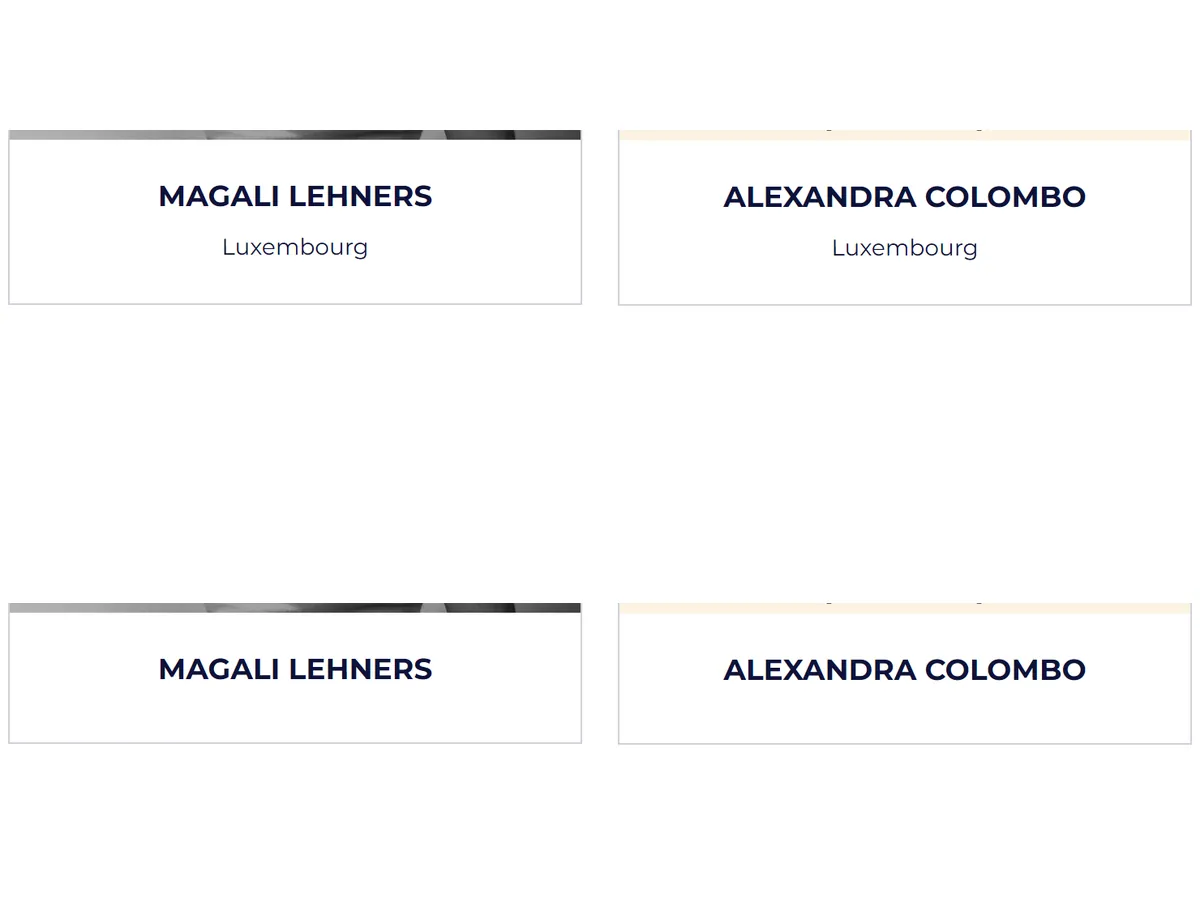
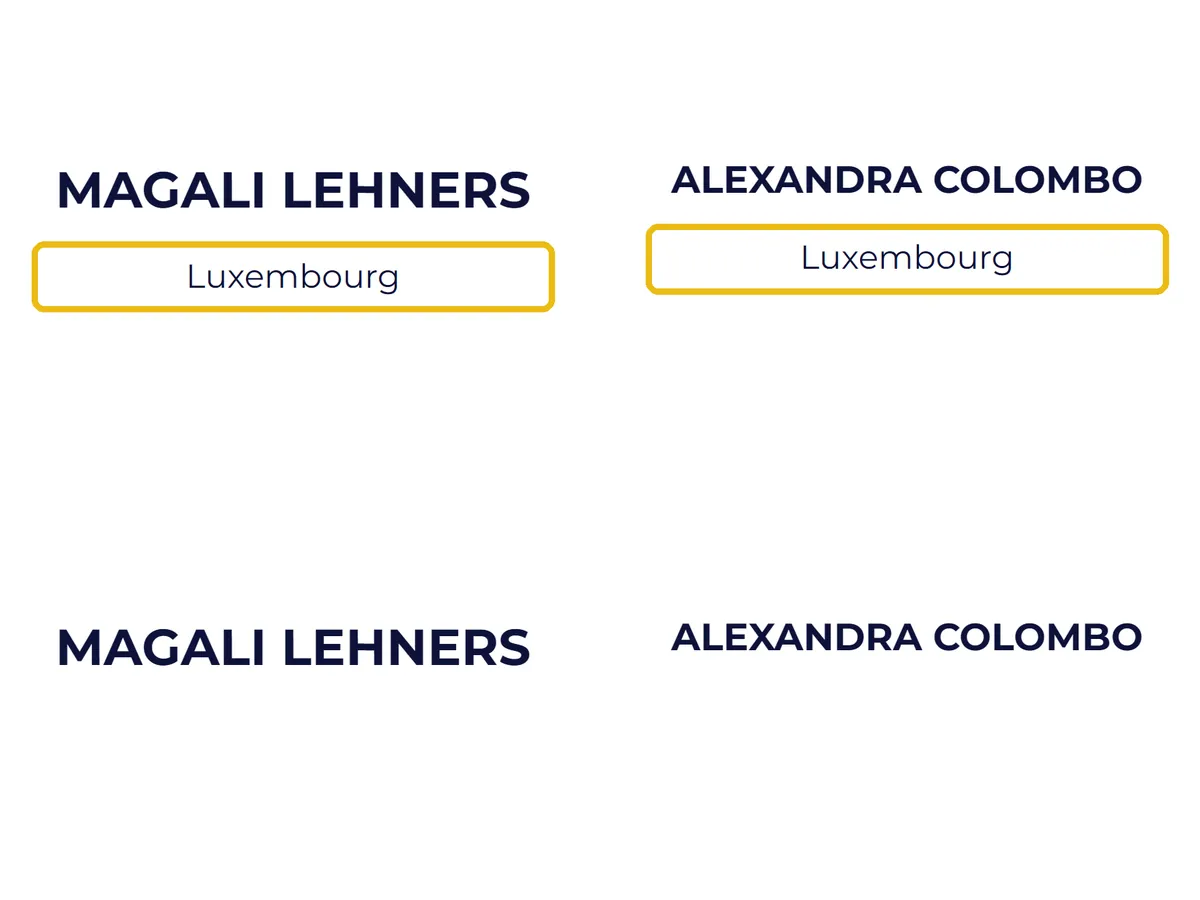
Deploy via Flowriter

diff --git a/changes.html b/changes.html
@@ -17,7 +17,7 @@
   <link rel="stylesheet" href="css/variables.css?v=577f7e82">
   <link rel="stylesheet" href="css/palette-lux-lotus.css?v=31d50f10">
   <link rel="stylesheet" href="css/project.css?v=4b58567f">
-  <link rel="stylesheet" href="css/changes.css?v=625f968e">
+  <link rel="stylesheet" href="css/changes.css?v=851d2dff">
 </head>
 <body>
 <div data-flwr class="f-mode-light site_wrap ch_page">
@@ -59,7 +59,7 @@
 
       <article class="ch_card">
         <div class="ch_media ch_media--stack">
-          <img src="assets/images/changes/c01-venue.webp" alt="Before: the venue said [TBC: VENUE]. Now: Coque Luxembourg, 2 rue Léon Hengen, L-1745 Luxembourg, under a photo of the arena" class="ch_shot" width="1200" height="900">
+          <img src="assets/images/changes/c01-venue.webp" alt="Before: the venue said [TBC: VENUE]. Now: Coque Luxembourg, 2 rue Léon Hengen, L-1745 Luxembourg" class="ch_shot" width="1200" height="900">
           <span class="ch_tag is-first">Before</span><span class="ch_tag is-second">Now</span>
         </div>
         <div class="ch_body">
@@ -76,7 +76,7 @@
         <div class="ch_body">
           <div class="ch_meta"><span class="ch_num">02</span><span class="ch_chip is-done">Done</span></div>
           <h3 class="ch_title">24 event photos placed</h3>
-          <p class="ch_text">Chosen from all 178 of your photos from the last gathering. No photo appears twice, and we skipped any with signs, landmarks or banners, so the pages read as Tribe.</p>
+          <p class="ch_text">Chosen from all 178 of your photos from the last gathering. No photo appears twice, and we skipped any with signs, landmarks or banners, so every photo feels like a Tribe Gathering, not a city.</p>
         </div>
       </article>
 
@@ -94,7 +94,7 @@
 
       <article class="ch_card">
         <div class="ch_media ch_media--stack">
-          <img src="assets/images/changes/c04-names.webp" alt="Before: Luxembourg under the names of Magali Lehners and Alexandra Colombo. Now: names only" class="ch_shot" width="1200" height="900" loading="lazy">
+          <img src="assets/images/changes/c04-names.webp" alt="Before: Luxembourg under the names of Magali Lehners and Alexandra Colombo, outlined in yellow. Now: names only" class="ch_shot" width="1200" height="900" loading="lazy">
           <span class="ch_tag is-first">Before</span><span class="ch_tag is-second">Now</span>
         </div>
         <div class="ch_body">
@@ -105,8 +105,8 @@
       </article>
 
       <article class="ch_card">
-        <div class="ch_media ch_media--side">
-          <img src="assets/images/changes/c05-one-list.webp" alt="Before: a separate Local teachers block. Now: Alexandra Colombo follows Moritz Ulrich in the main list" class="ch_shot" width="1200" height="900" loading="lazy">
+        <div class="ch_media ch_media--stack">
+          <img src="assets/images/changes/c05-one-list.webp" alt="Before: a separate Local teachers heading with Alexandra Colombo and Magali Lehners under it. Now: Moritz Ulrich, Alexandra Colombo and Magali Lehners in one row of the main list" class="ch_shot" width="1200" height="900" loading="lazy">
           <span class="ch_tag is-first">Before</span><span class="ch_tag is-second">Now</span>
         </div>
         <div class="ch_body">
@@ -124,13 +124,13 @@
         <div class="ch_body">
           <div class="ch_meta"><span class="ch_num">06</span><span class="ch_chip is-done">Done</span></div>
           <h3 class="ch_title">Registration is open</h3>
-          <p class="ch_text">The register page and every invitation to register now say open instead of "opens soon".</p>
+          <p class="ch_text">On the review site, the register page and every invitation to register now say open instead of "opens soon".</p>
         </div>
       </article>
 
       <article class="ch_card">
         <div class="ch_media">
-          <img src="assets/images/changes/c07-prices.webp" alt="Full 4 day pass: early bird 400 euros, regular 500 euros, as shown on a phone" class="ch_shot" width="1200" height="900" loading="lazy">
+          <img src="assets/images/changes/c07-prices.webp" alt="Full 4 day pass: early bird 400 euros, regular 500 euros" class="ch_shot" width="1200" height="900" loading="lazy">
         </div>
         <div class="ch_body">
           <div class="ch_meta"><span class="ch_num">07</span><span class="ch_chip is-confirm">Done, please confirm</span></div>
@@ -157,7 +157,7 @@
         <div class="ch_body">
           <div class="ch_meta"><span class="ch_num">09</span><span class="ch_chip is-ready">Ready when you are</span></div>
           <h3 class="ch_title">Go live on tribe.jivamuktiyoga.com</h3>
-          <p class="ch_text">Everything is on the review links now. The last step moves it to your address, and the Rome site at that address is replaced by this one.</p>
+          <p class="ch_text">Everything is on the review links now. The last step moves it to your address: this site replaces the Rome 2026 site there, and the Rome edition stays on the archive page.</p>
         </div>
       </article>
 
@@ -176,8 +176,9 @@
     <div class="ch_grid">
 
       <article class="ch_card">
-        <div class="ch_media">
-          <img src="assets/images/changes/c10-lotus-centre.webp" alt="The lotus of the main logo, with its yellow centre" class="ch_shot" width="1200" height="900" loading="lazy">
+        <div class="ch_media ch_media--stack">
+          <img src="assets/images/changes/c10-lotus-centre.webp" alt="The whole main logo, and a close-up of the yellow centre of its lotus" class="ch_shot" width="1200" height="900" loading="lazy">
+          <span class="ch_tag is-first">Main logo</span><span class="ch_tag is-second">Close-up</span>
         </div>
         <div class="ch_body">
           <div class="ch_meta"><span class="ch_num">10</span><span class="ch_chip is-done">Done</span></div>
@@ -262,7 +263,7 @@
 
       <article class="ch_card">
         <div class="ch_media">
-          <img src="assets/images/changes/c16-portraits.webp" alt="The line-up: portraits, with a lotus where a portrait is still missing" class="ch_shot" width="1200" height="900" loading="lazy">
+          <img src="assets/images/changes/c16-portraits.webp" alt="The whole line-up: eight portraits and three lotus placeholders" class="ch_shot" width="1200" height="900" loading="lazy">
         </div>
         <div class="ch_body">
           <div class="ch_meta"><span class="ch_num">16</span><span class="ch_chip is-need">Needs 3 portraits</span></div>
@@ -284,13 +285,14 @@
       </article>
 
       <article class="ch_card">
-        <div class="ch_media">
-          <img src="assets/images/changes/c18-header-logo.webp" alt="The register page header: the logo centred beside the photo" class="ch_shot" width="1200" height="900" loading="lazy">
+        <div class="ch_media ch_media--side">
+          <img src="assets/images/changes/c18-header-logo.webp" alt="The line-up page header on a phone. Before: a small single lotus. Now: the full logo between the photo and the page title" class="ch_shot" width="1200" height="900" loading="lazy">
+          <span class="ch_tag is-first">Before</span><span class="ch_tag is-second">Now</span>
         </div>
         <div class="ch_body">
           <div class="ch_meta"><span class="ch_num">18</span><span class="ch_chip is-done">Done</span></div>
-          <h3 class="ch_title">Bigger logo in page headers</h3>
-          <p class="ch_text">Larger than before and centred against the photo beside it.</p>
+          <h3 class="ch_title">Full logo in every page header</h3>
+          <p class="ch_text">Inner pages used to show only a small lotus. Now the full logo sits in every page header, bigger and centred against the photo beside it.</p>
         </div>
       </article>
 
@@ -309,7 +311,7 @@
             <figcaption class="ch_phone-label">About</figcaption>
           </figure>
         </div>
-        <div class="ch_body">
+        <div class="ch_body ch_body--wide">
           <div class="ch_meta"><span class="ch_num">19</span><span class="ch_chip is-done">Done</span></div>
           <h3 class="ch_title">Clean on phones</h3>
           <p class="ch_text">The logo, page title and round logo no longer overlap on any page, and the round logo is smaller on phones.</p>
@@ -317,7 +319,7 @@
       </article>
 
       <article class="ch_card ch_card--wide">
-        <div class="ch_phones">
+        <div class="ch_phones ch_phones--pair">
           <figure class="ch_phone-wrap">
             <span class="ch_tag is-inline">Before</span>
             <div class="ch_phone"><img src="assets/images/changes/phone-register-before.webp" alt="Before: the register page on a phone said Registration opens soon" class="ch_phone-shot" width="780" height="1688"></div>
@@ -327,10 +329,10 @@
             <div class="ch_phone"><img src="assets/images/changes/phone-register-now.webp" alt="Now: the register page on a phone shows the full 4 day pass with early bird and regular prices" class="ch_phone-shot" width="780" height="1688"></div>
           </figure>
         </div>
-        <div class="ch_body">
+        <div class="ch_body ch_body--wide">
           <div class="ch_meta"><span class="ch_num">20</span><span class="ch_chip is-done">Done</span></div>
           <h3 class="ch_title">Register page, rebuilt</h3>
-          <p class="ch_text">Before, it only said registration opens soon. Now it has the Rome layout with pass cards, day passes, concert and single classes, on phones, tablets and desktop.</p>
+          <p class="ch_text">Before, it only said registration opens soon. Now it has the same layout as the Rome site, with pass cards, day passes, concert and single classes, on phones, tablets and desktop.</p>
         </div>
       </article>
 
@@ -338,7 +340,7 @@
         <div class="ch_media">
           <img src="assets/images/changes/c21-announcement.webp" alt="The top of the announcement page" class="ch_shot" width="1200" height="900" loading="lazy">
         </div>
-        <div class="ch_body">
+        <div class="ch_body ch_body--wide">
           <div class="ch_meta"><span class="ch_num">21</span><span class="ch_chip is-done">Done</span></div>
           <h3 class="ch_title">Announcement page</h3>
           <p class="ch_text">Logo, dates, countdown, line-up and "More information coming soon", in case you'd rather show only that first.</p>

diff --git a/css/changes.css b/css/changes.css
@@ -8,8 +8,8 @@
    White page, navy section bands with a yellow eyebrow, a card grid
    (3 / 2 / 1 columns). Every card has ONE 4:3 image area (object-fit cover);
    before/after images are pre-split into two halves, side by side or stacked,
-   and the Before / Now tags sit on those halves. The two phone rows span the
-   full grid and scroll sideways on small screens.
+   and the Before / Now tags sit on those halves. The last three cards are
+   full-width rows; on phones the mock-ups wrap two per row, never cut.
    No script, no rotations. Longhand properties, max-width 991 / 767 / 478 only.
    ============================================================================ */
 
@@ -512,10 +512,20 @@
   grid-column-start: 1;
   grid-column-end: -1;
   display: grid;
-  grid-template-columns: minmax(0, 2fr) minmax(0, 1fr);
+  grid-template-columns: minmax(0, 7fr) minmax(0, 5fr);
   align-items: center;
-  column-gap: var(--_spacing---step--6);
+  column-gap: var(--_spacing---step--7);
   row-gap: var(--_spacing---step--3);
+}
+[data-flwr] .ch_body--wide {
+  row-gap: var(--_spacing---step--3);
+  max-width: 30rem;
+}
+[data-flwr] .ch_body--wide .ch_title {
+  font-size: var(--_typography---size--h3);
+}
+[data-flwr] .ch_body--wide .ch_text {
+  font-size: var(--_typography---size--lead);
 }
 [data-flwr] .ch_phones {
   display: flex;
@@ -695,21 +705,44 @@
     max-width: 24rem;
   }
   [data-flwr] .ch_phones {
-    justify-content: flex-start;
+    flex-wrap: wrap;
     column-gap: var(--_spacing---step--3);
+    row-gap: var(--_spacing---step--4);
     padding-top: var(--_spacing---step--4);
-    padding-right: var(--_spacing---step--4);
+    padding-right: var(--_spacing---step--3);
     padding-bottom: var(--_spacing---step--4);
-    padding-left: var(--_spacing---step--4);
-    overflow-x: auto;
-    overflow-y: hidden;
-    scroll-snap-type: x mandatory;
-    scrollbar-width: thin;
+    padding-left: var(--_spacing---step--3);
   }
   [data-flwr] .ch_phone-wrap {
-    flex-shrink: 0;
-    flex-basis: 13.5rem;
-    scroll-snap-align: start;
+    flex-grow: 0;
+    flex-shrink: 1;
+    flex-basis: calc(50% - var(--_spacing---step--3));
+    max-width: 12rem;
+  }
+  [data-flwr] .ch_phone {
+    padding-top: 0.35rem;
+    padding-right: 0.35rem;
+    padding-bottom: 0.35rem;
+    padding-left: 0.35rem;
+    border-top-left-radius: 1.25rem;
+    border-top-right-radius: 1.25rem;
+    border-bottom-left-radius: 1.25rem;
+    border-bottom-right-radius: 1.25rem;
+  }
+  [data-flwr] .ch_phone-shot {
+    border-top-left-radius: 0.95rem;
+    border-top-right-radius: 0.95rem;
+    border-bottom-left-radius: 0.95rem;
+    border-bottom-right-radius: 0.95rem;
+  }
+  [data-flwr] .ch_body--wide {
+    max-width: none;
+  }
+  [data-flwr] .ch_body--wide .ch_title {
+    font-size: 1.25rem;
+  }
+  [data-flwr] .ch_body--wide .ch_text {
+    font-size: 1rem;
   }
   [data-flwr] .ch_footer {
     flex-direction: column;
@@ -724,9 +757,6 @@
   }
   [data-flwr] .ch_stats {
     column-gap: var(--_spacing---step--3);
-  }
-  [data-flwr] .ch_phone-wrap {
-    flex-basis: 12.5rem;
   }
   [data-flwr] .ch_need {
     column-gap: var(--_spacing---step--3);
